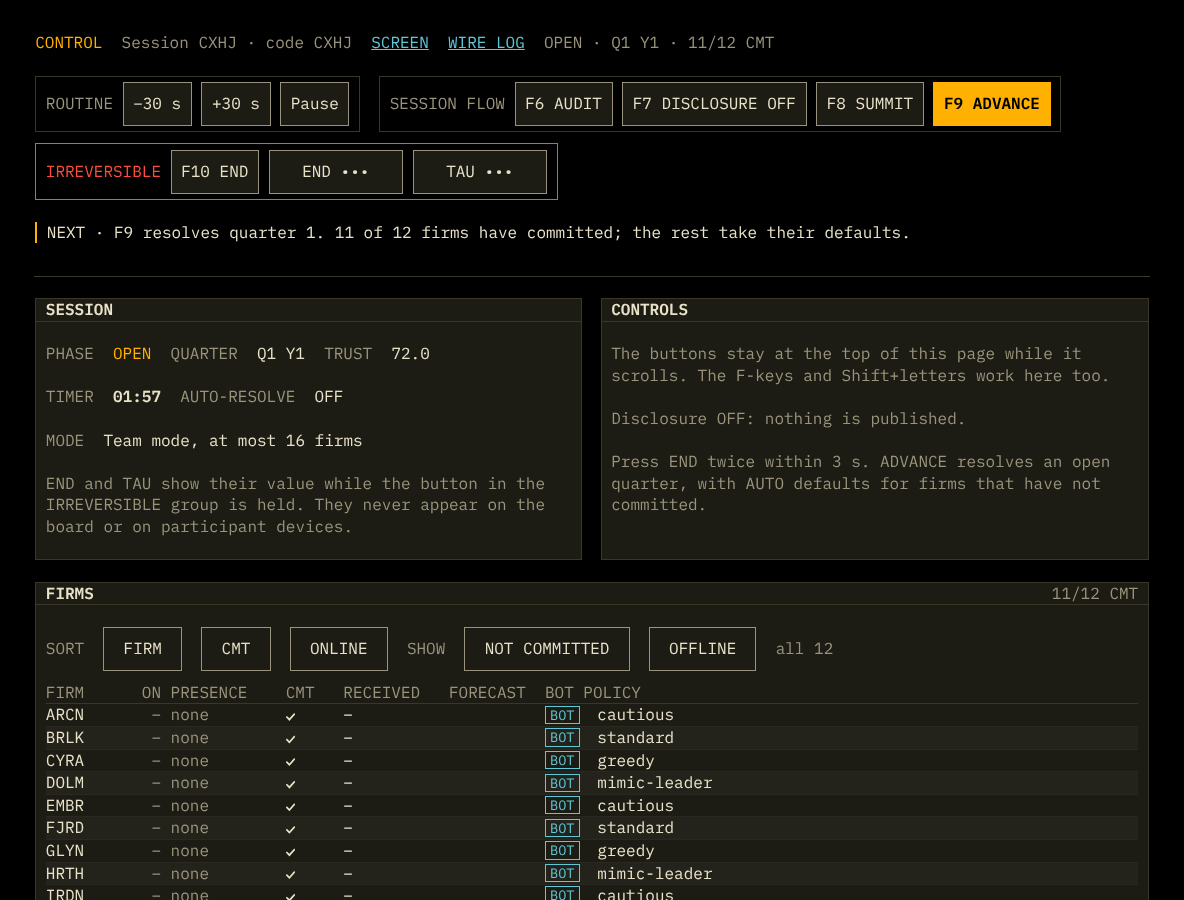
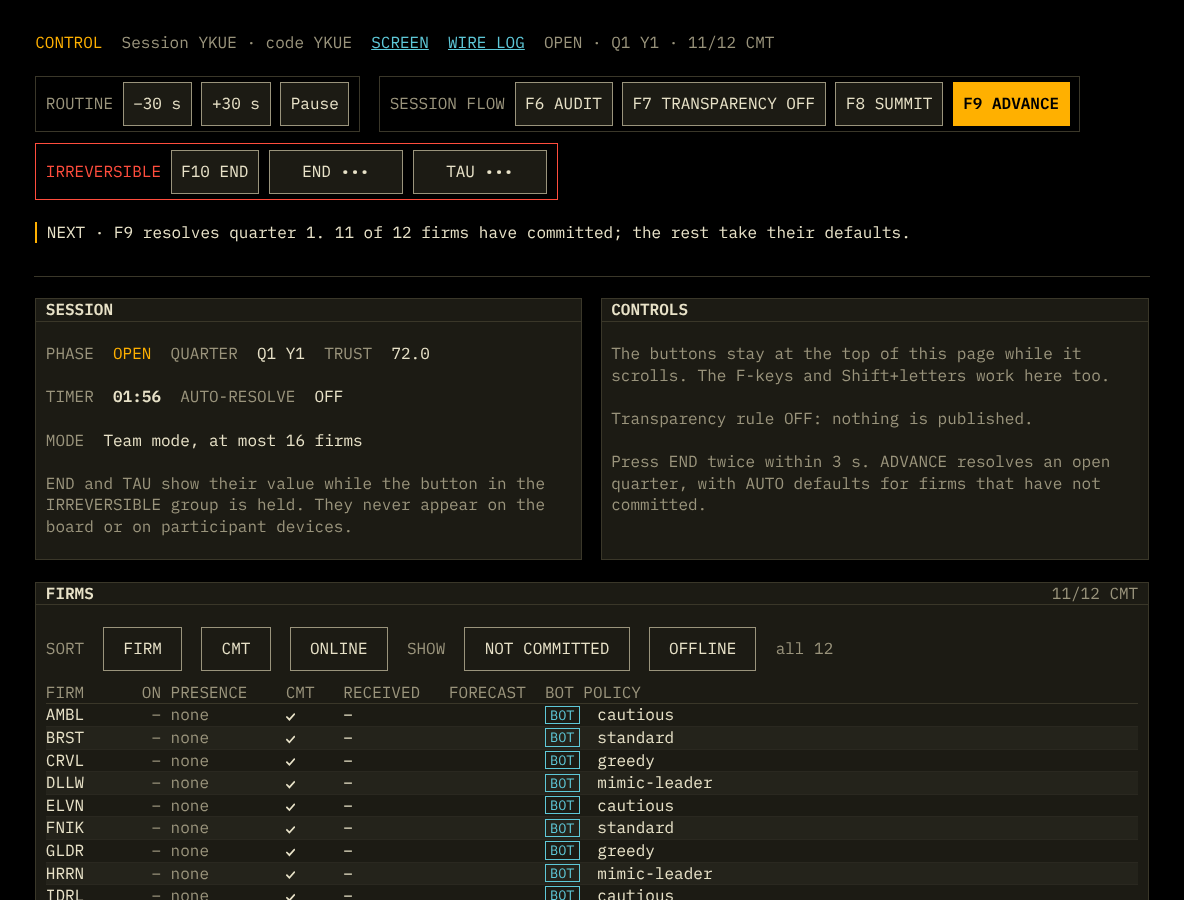
guide: FEED screenshots from a staged emulator session
Scripted phone firms renamed to fictional platforms (HLVY, TRNL), the
stale PROPOSE A PACT wait fixed, image names follow the FEED vocabulary.

Claude-Session: https://claude.ai/code/session_0194fjRPMZf5o4jwKXX3W6ct

diff --git a/scripts/guide-shots.ts b/scripts/guide-shots.ts
@@ -2,8 +2,9 @@
  * Screenshots for the facilitator guide (Session 19 Part E). Usage: `npm run guide:shots`.
  *
  * Stages a session against the emulators with the real screens: fixed seed, ten in-app bot firms (mixed policies) and
- * two scripted phone firms with fictional names (Quarry Labs QRRY, Talwen Systems TLWN). QRRY proposes PACT-A in a
- * summit, TLWN joins it, QRRY then breaks it and an F6 audit finds the breach. The session runs to a fixed end, then
+ * two scripted phone firms with fictional platform names (Halvey HLVY, Tarnell TRNL), not taken from the bot list. HLVY
+ * proposes a youth design code (stored PACT-A, shown YDC-A) in a summit, TRNL joins it, HLVY then breaks it and an F6
+ * audit finds the breach. The session runs to a fixed end, then
  * every results panel is captured. Images go to docs/facilitator-guide/img/ and are committed; the guide build
  * (`npm run guide:pdf`) needs no emulator.
  */
@@ -36,8 +37,8 @@ async function saveColumn(page: Page, name: string, height: number): Promise<voi
   await page.screenshot({ path: `${IMG}/${name}.png`, clip: { x, y: 0, width, height: h } });
 }
 
-/** QRRY's decisions from quarter 3 on: racing, with RUSH every other quarter. */
-const qrry = (r: number): Decision => ({ pace: r % 3 === 0 ? 3 : 4, safety: 0, card: r % 2 ? 'RUSH' : 'NONE', target: null });
+/** HLVY's decisions from quarter 3 on: FEED 3–4 with no safeguards, LAUNCH (RUSH) every other quarter. */
+const hlvy = (r: number): Decision => ({ pace: r % 3 === 0 ? 3 : 4, safety: 0, card: r % 2 ? 'RUSH' : 'NONE', target: null });
 
 await runWithStack(async (browser) => {
   mkdirSync(IMG, { recursive: true });
@@ -77,11 +78,11 @@ await runWithStack(async (browser) => {
     await h(p, 'signIn');
     return p;
   };
-  const q = await phone('QRRY');
-  const { firmId: qId } = await h(q, 'found', g, 'Quarry Labs', 'QRRY', 'QL');
-  const t = await phone('TLWN');
-  await h(t, 'found', g, 'Talwen Systems', 'TLWN', 'TS');
-  await waitText(fac, /TLWN/, 'the lobby lists both phone firms', 15_000, '.scr');
+  const q = await phone('HLVY');
+  const { firmId: qId } = await h(q, 'found', g, 'Halvey', 'HLVY', 'HV');
+  const t = await phone('TRNL');
+  await h(t, 'found', g, 'Tarnell', 'TRNL', 'TN');
+  await waitText(fac, /TRNL/, 'the lobby lists both phone firms', 15_000, '.scr');
   await save(fac, 'lobby');
 
   const control = watchPage(await ctx.newPage(), 'console', ignore);
@@ -100,11 +101,11 @@ await runWithStack(async (browser) => {
   await waitText(fac, new RegExp(`${label(1)}[\\s\\S]*OPEN`), 'quarter 1 opens', 15_000, '.scr');
   await q.goto(`${BASE}#/play/${g}`);
   await t.goto(`${BASE}#/play/${g}`);
-  await waitText(q, /T-\d\d:\d\d/, 'the QRRY phone shows the countdown', 15_000);
+  await waitText(q, /T-\d\d:\d\d/, 'the HLVY phone shows the countdown', 15_000);
   await save(q, 'phone-desk');
   await q.getByRole('radio', { name: /AUTOPLAY/ }).click();
   await q.getByRole('button', { name: /^COMMIT/ }).click();
-  await waitText(q, /COMMITTED/, 'QRRY commits quarter 1');
+  await waitText(q, /COMMITTED/, 'HLVY commits quarter 1');
   await fac.waitForTimeout(800);
   await save(fac, 'board-open');
   await control.bringToFront();
@@ -116,16 +117,16 @@ await runWithStack(async (browser) => {
   const resolveQuarter = async (r: number): Promise<void> => {
     await key('F9');
     await waitText(fac, /REVEAL/, `quarter ${r} resolves`, 20_000, '.scr');
-    // The INCIDENTS block appears when the 1.2 s reveal sequence ends.
+    // The HARM STORIES block appears when the 1.2 s reveal sequence ends.
     await fac.waitForTimeout(1800);
     const hit = Object.values((await adminGet<Record<string, string> | string[] | null>(`games/${g}/rounds/${r}/incidentFirms`)) ?? {});
     if (!incidentShot && hit.length > 0 && (await fac.locator('[data-incident-block]').count()) > 0) {
       incidentShot = true;
-      await save(fac, 'reveal-incidents');
+      await save(fac, 'reveal-harm');
     }
   };
   await resolveQuarter(1);
-  await waitText(q, /RESULT/, 'the QRRY phone shows the result card', 15_000);
+  await waitText(q, /RESULT/, 'the HLVY phone shows the result card', 15_000);
   await save(q, 'phone-result');
 
   // ── Quarter 2: summit, pact, the terms preview, the ticket notice ──────────
@@ -134,16 +135,16 @@ await runWithStack(async (browser) => {
   await key('F8');
   await waitText(fac, /Industry summit in session/, 'F8 enters the summit', 15_000, '.scr');
   await save(fac, 'summit');
-  await waitText(q, /PROPOSE A PACT/, 'the summit opens the PACTS tab on the phone', 15_000);
+  await waitText(q, /PROPOSE A CODE/, 'the summit opens the YDC tab on the phone', 15_000);
   await q.getByRole('button', { name: 'PROPOSE A CODE' }).click();
   await q.getByRole('checkbox', { name: 'Maximum feed' }).check();
   await q.locator('[data-pact-preview]').scrollIntoViewIfNeeded();
-  await save(q, 'phone-pact-preview');
+  await save(q, 'phone-code-preview');
   await q.getByRole('button', { name: 'SIGN YDC-A' }).click();
-  await waitText(t, /JOIN YDC-A/, 'TLWN sees YDC-A', 15_000);
+  await waitText(t, /JOIN YDC-A/, 'TRNL sees YDC-A', 15_000);
   await t.getByRole('button', { name: 'JOIN YDC-A' }).click();
-  await waitText(q, /YDC-A[\s\S]*TLWN|YDC-A[\s\S]*2 MBRS/, 'QRRY sees TLWN join', 15_000);
-  await save(q, 'phone-pacts');
+  await waitText(q, /YDC-A[\s\S]*TRNL|YDC-A[\s\S]*2 MBRS/, 'HLVY sees TRNL join', 15_000);
+  await save(q, 'phone-ydc');
   await key('F8');
   await waitText(fac, new RegExp(`${label(2)}[\\s\\S]*OPEN`), 'F8 returns to the open quarter', 15_000, '.scr');
   await q.getByRole('tab', { name: 'DESK' }).click();
@@ -151,12 +152,12 @@ await runWithStack(async (browser) => {
   await waitText(q, /Breaks YDC-A: feed 2 or lower/, 'the ticket warns that STREAKS breaks YDC-A');
   await save(q, 'phone-ticket-notice');
   await q.getByRole('button', { name: /COMMIT/ }).click();
-  await waitText(q, /COMMITTED/, 'QRRY commits quarter 2');
+  await waitText(q, /COMMITTED/, 'HLVY commits quarter 2');
   await resolveQuarter(2);
 
   // ── Quarters 3 to the end ──────────────────────────────────────────────────
-  // A harness tab in QRRY's browser context submits for it; the same anonymous user is restored there.
-  const qh = watchPage(await q.context().newPage(), 'QRRY harness', ignore);
+  // A harness tab in HLVY's browser context submits for it; the same anonymous user is restored there.
+  const qh = watchPage(await q.context().newPage(), 'HLVY harness', ignore);
   await qh.goto(`${BASE}tests/e2e/harness/participant.html`);
   await qh.waitForFunction(() => 'harness' in window);
   await h(qh, 'signIn');
@@ -164,7 +165,7 @@ await runWithStack(async (browser) => {
     await key('F9');
     await waitText(fac, new RegExp(`${label(r)}[\\s\\S]*OPEN`), `quarter ${r} opens`, 15_000, '.scr');
     if (r === 4) {
-      // F6 (Shift+F) then 1: audit PACT-A when this quarter resolves.
+      // F6 (Shift+F) then 1: audit YDC-A (stored PACT-A) when this quarter resolves.
       await key('Shift+F');
       await waitText(fac, /Press the number of the code/, 'Shift+F opens the audit picker', 5_000, '.scr');
       await fac.keyboard.press('1');
@@ -173,11 +174,11 @@ await runWithStack(async (browser) => {
     }
     if (r === 7) {
       await key('Shift+D');
-      await waitText(fac, /TRANSPARENCY ON/, 'Shift+D turns disclosure on', 15_000, '.scr');
+      await waitText(fac, /TRANSPARENCY ON/, 'Shift+D turns the transparency rule on', 15_000, '.scr');
     }
-    await h(qh, 'submit', g, r, qId, qrry(r));
+    await h(qh, 'submit', g, r, qId, hlvy(r));
     await resolveQuarter(r);
-    if (r === 7) await save(fac, 'reveal-disclosure');
+    if (r === 7) await save(fac, 'reveal-transparency');
     if (r === 4) {
       await q.getByRole('tab', { name: 'BOOK' }).click();
       await q.locator('[data-book-field] svg[data-chart="line"]').waitFor({ timeout: 10_000 }).catch(() => check(false, 'BOOK draws the field chart'));
@@ -195,7 +196,7 @@ await runWithStack(async (browser) => {
       await fac.bringToFront();
     }
   }
-  check(incidentShot, 'a reveal with the INCIDENTS block was captured');
+  check(incidentShot, 'a reveal with the HARM STORIES block was captured');
 
   // ── End and the seven results panels ───────────────────────────────────────
   await key('F9');
